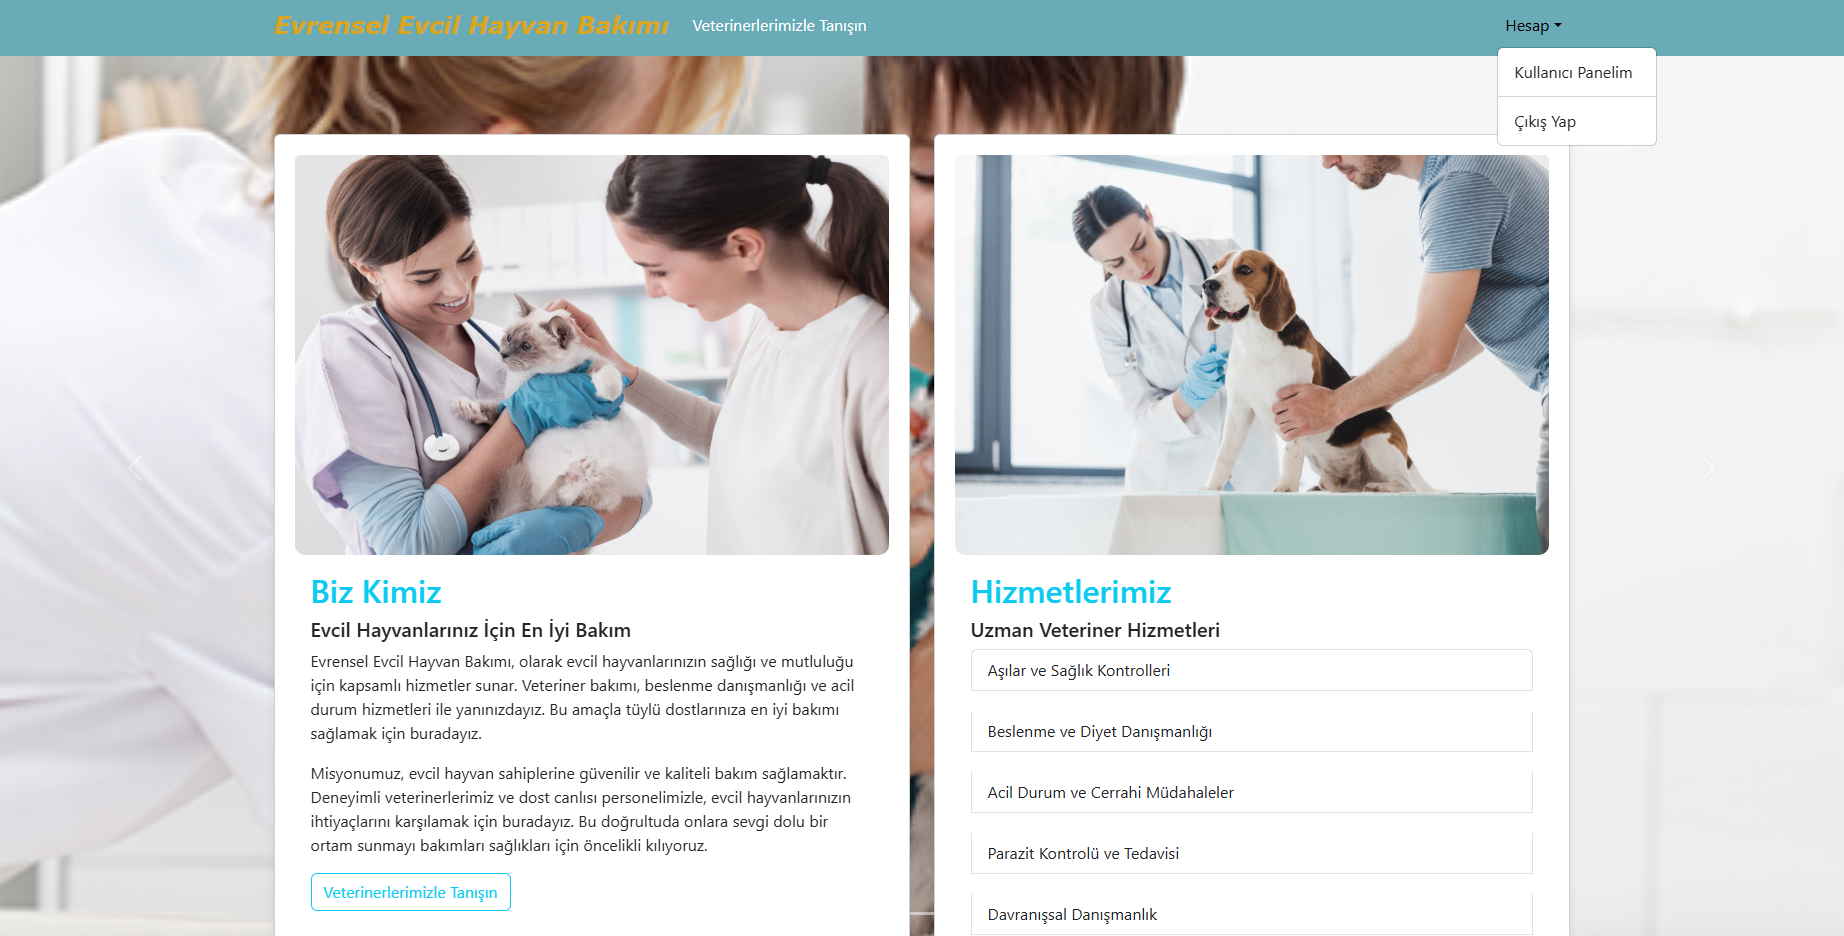
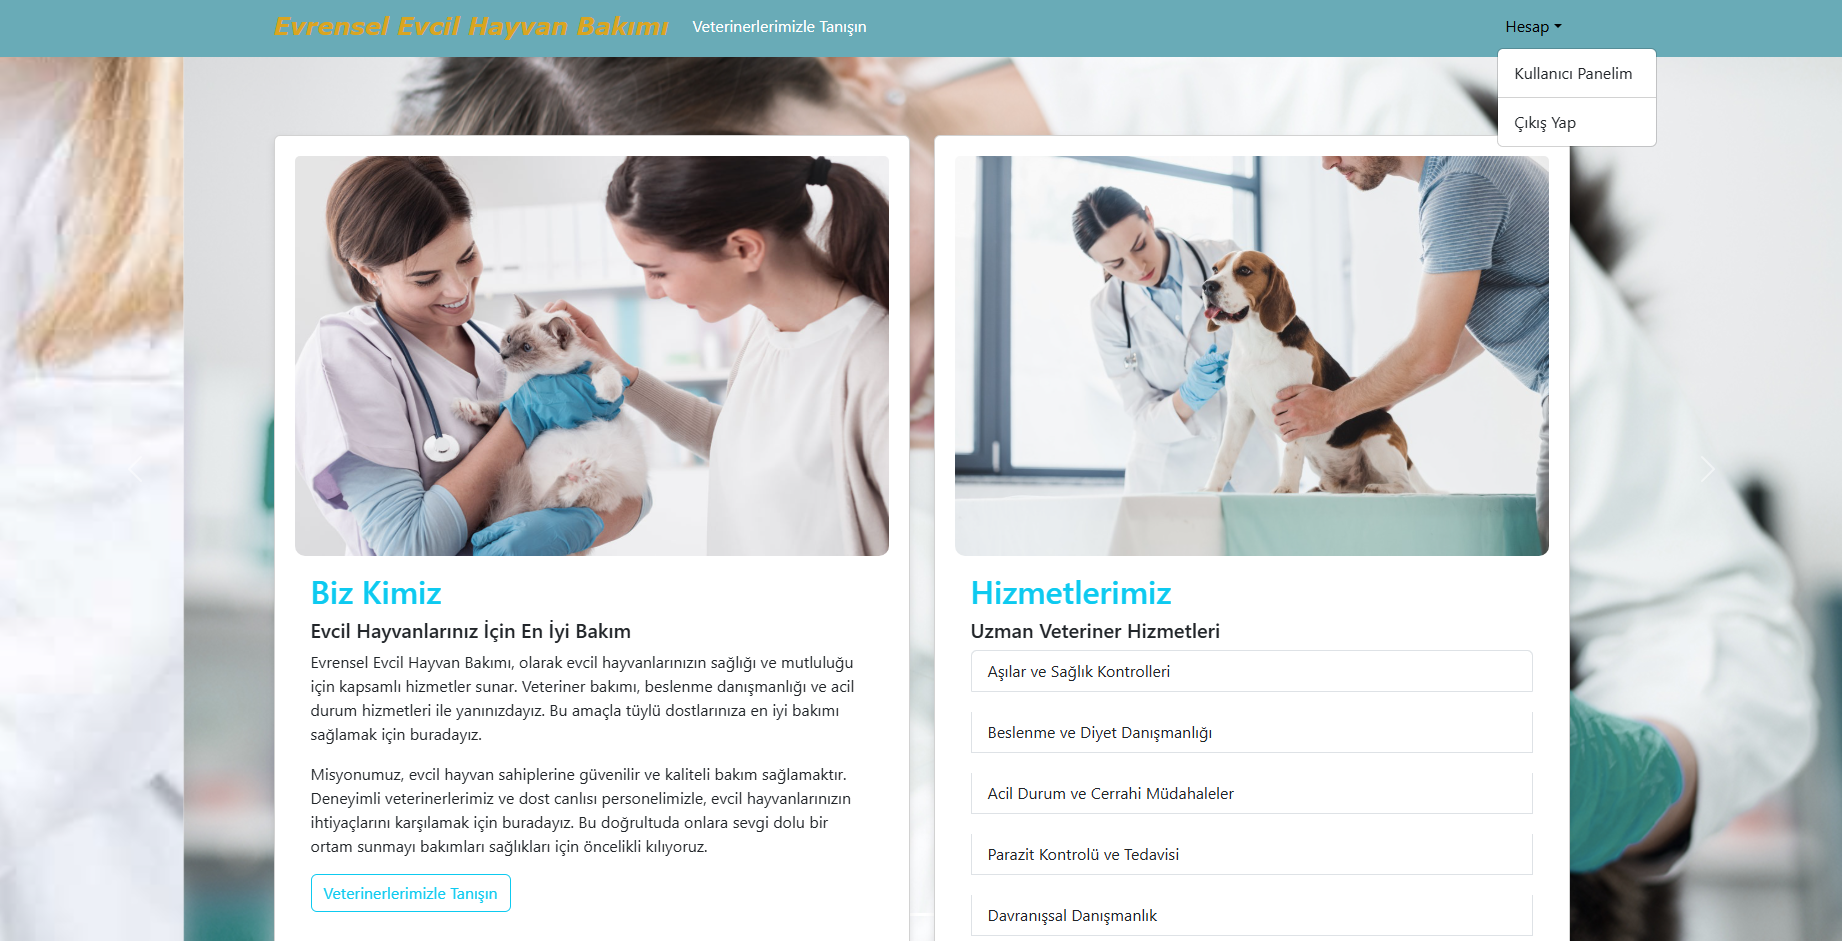
update

diff --git a/frontend/universal-pet-care/src/components/user/UserProfile.jsx b/frontend/universal-pet-care/src/components/user/UserProfile.jsx
@@ -155,9 +155,9 @@ const UserProfile = ({ user, handleRemovePhoto, handleDeleteAccount }) => {
                 <Col md={4}>Cinsiyet:</Col>
                 <Col md={4}>
                   <Card.Text>
-                    {user?.gender === "female"
+                    {user?.gender === "Female"
                       ? "Kadın"
-                      : user?.gender === "male"
+                      : user?.gender === "Male"
                         ? "Erkek"
                         : "Diğer"}
                   </Card.Text>
